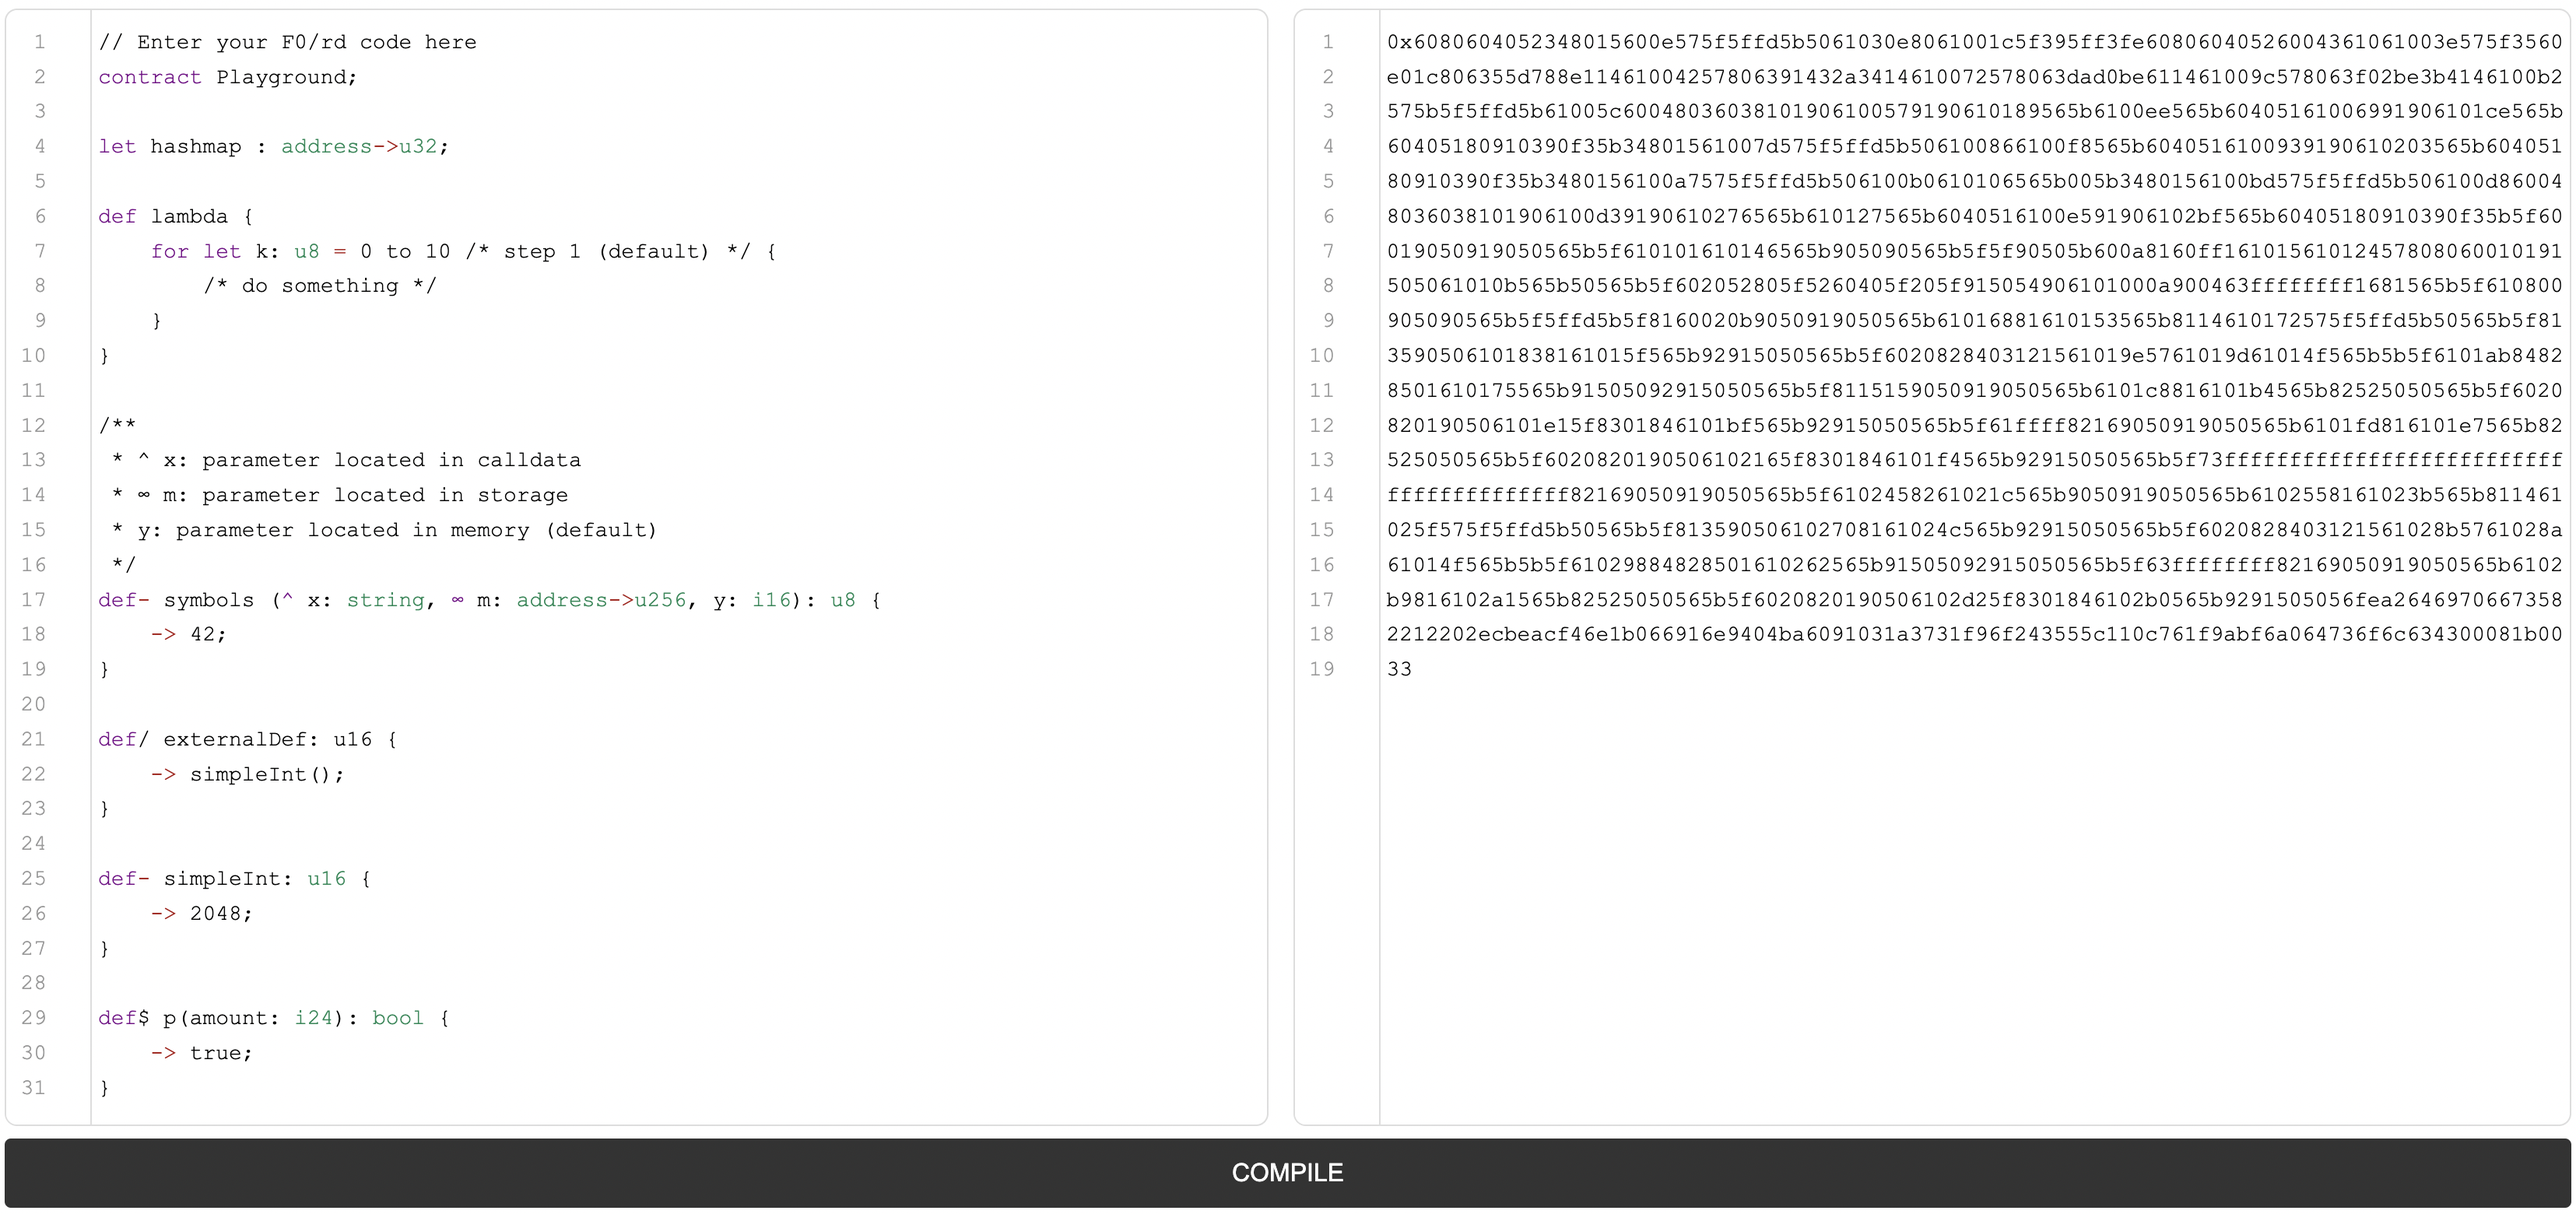
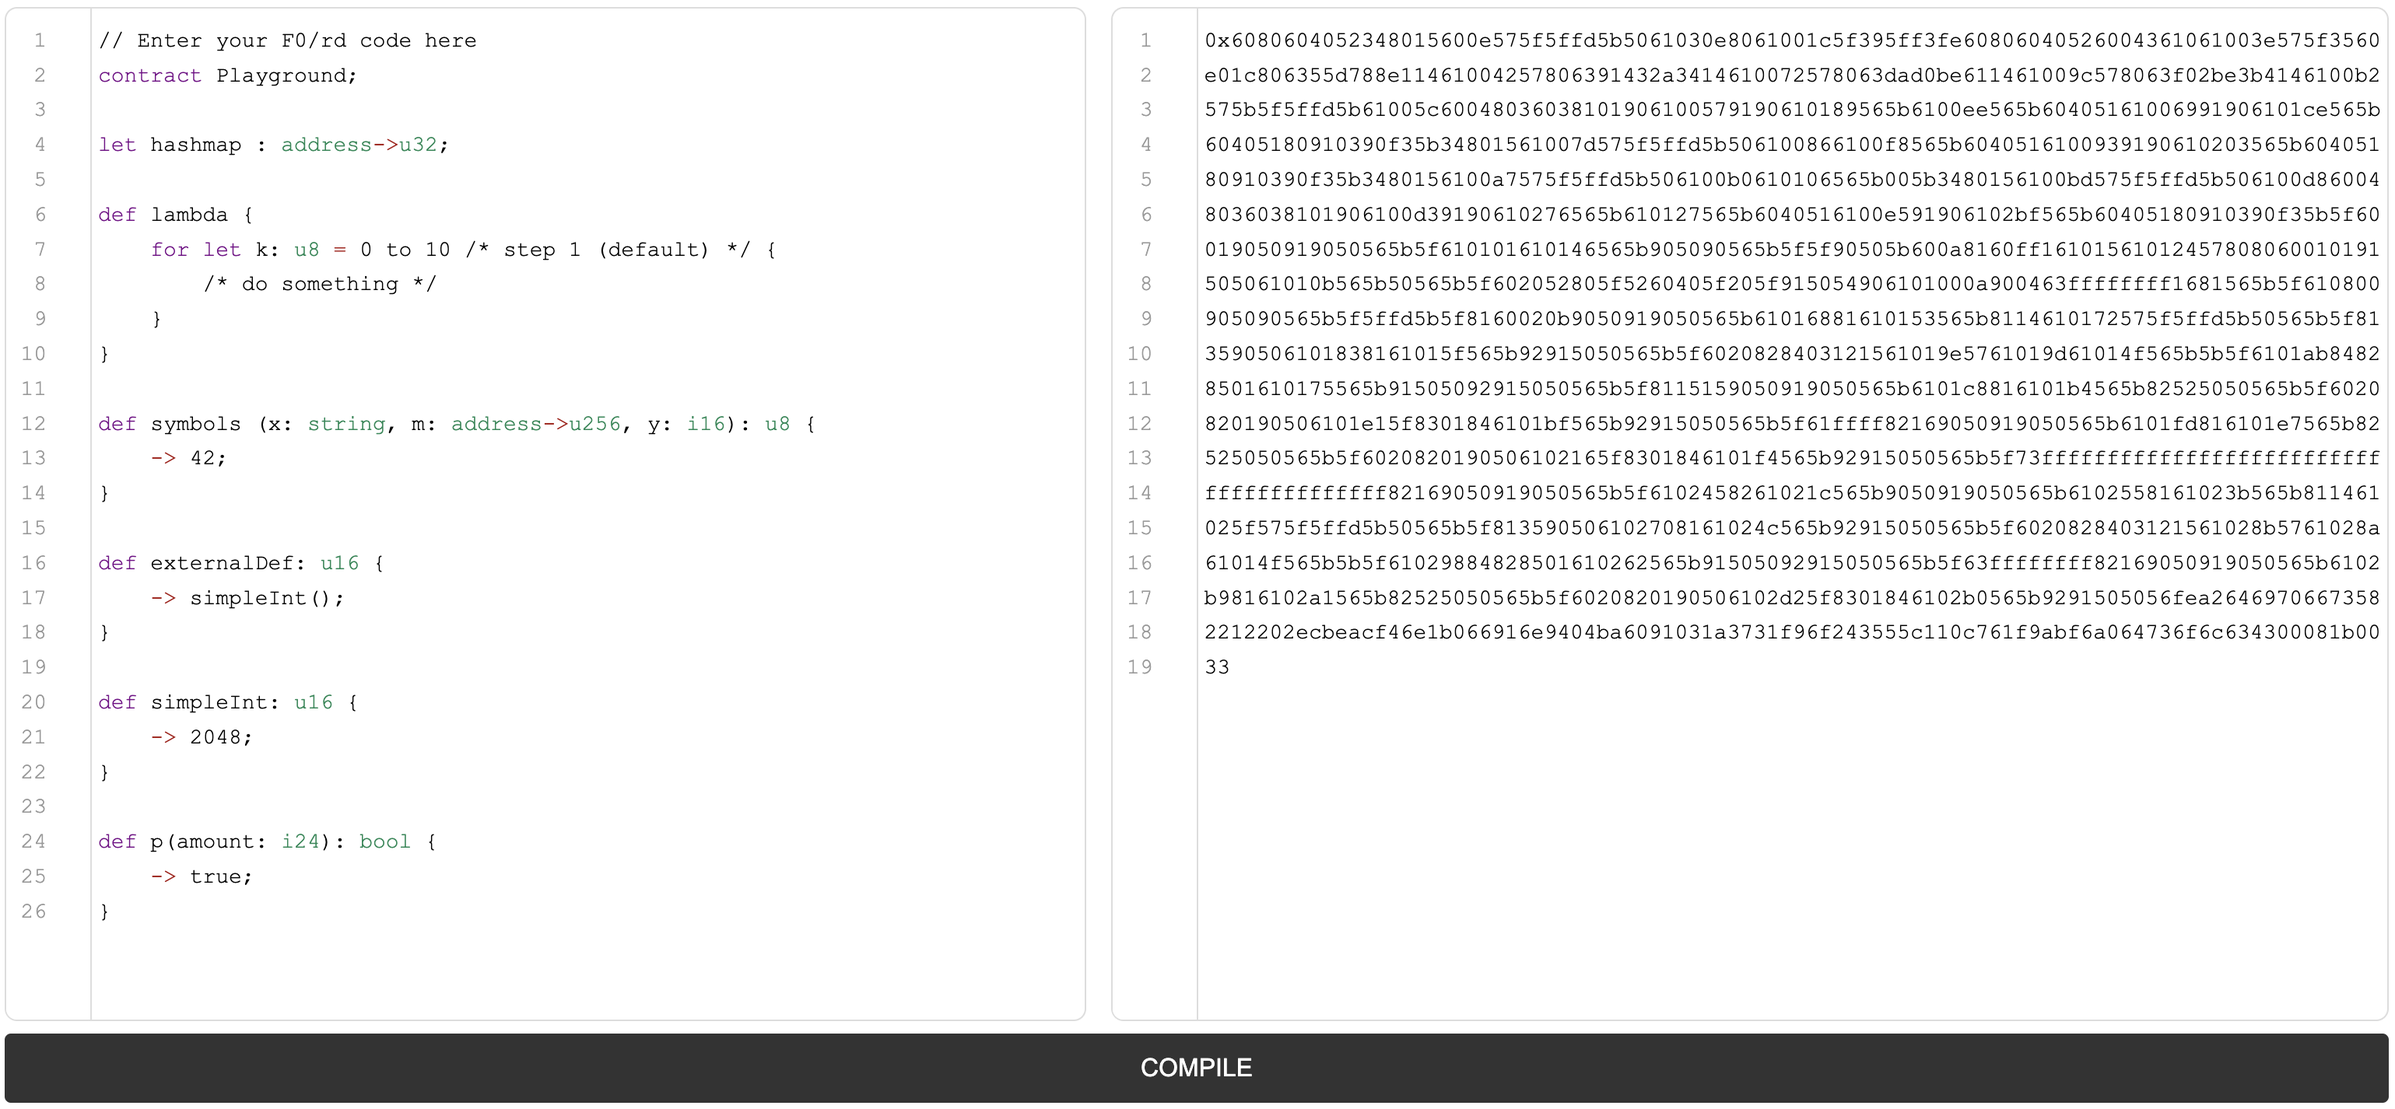
docs: updated F0/rd spec

diff --git a/README.md b/README.md
@@ -6,6 +6,85 @@
 
 ![Ford Playground Screenshot](docs/playground.png)
 
+## Why F0/rd ?
+
+Solidity and Vyper are the main smart contract programming languange for
+the EVM today.
+F0/rd is coming as a third alternative with a vision to make it easier to 
+develop for the EVM. We aim to achieve this by proposing a language that is 
+less verbose, easier to learn and providing modern language constructs, defaults and 
+developer-friendly tooling like F0/rd Simulate.
+
+## Smart contract: .f0 and .meta files
+
+With F0/rd, a smart contract is composed of a .f0 file and a .meta file.
+.f0 files contains the main logic of your smart contract while the .meta file 
+contains additional metadata that specify the relevant metadata of the state variables, 
+functions and events: schema, scope, visibility and modifiers.
+
+Example: 
+**playground.f0**
+```F0/rd
+contract Playground;
+
+let hashmap : address->u32;
+
+def lambda {
+    for let k: u8 = 0 to 10 {
+        /* do something */
+    }
+}
+
+def symbols (x: string, m: address->u256, y: i16): u8 {
+    -> 42;
+}
+```
+**playground.meta**
+```meta
+state:
+    hashmap:
+        - public 
+
+defs:
+  - name: lambda
+    modifiers:
+        - pure
+        - nonpayable
+        - public
+  - name: symbols
+    modifiers:
+        - pure
+        - nonpayable
+        - private
+    params:
+        - name: x
+          location: calldata
+        - name: m
+          location: storage
+```
+
+- The **.meta** file is auto-generated by the compiler.
+- All state variables and functions are assumed to be **public** and **non-payable** unless
+otherwise specified in the .meta file.
+- **pure** and **view** modifiers are detected automatically by the F0/rd compiler and do not
+need to be specified explicitly in the code.
+- Function's parameters are assumed to be located in **memory** unless otherwise specified in
+the .meta file.
+- Functions that do not take input parameters (i.e the `lambda` function in the above code) do not need empty parenthesis. They can be simply 
+written as 
+```F0/rd
+def lambda { ... }
+```
+- `for` loops assume a default step of `1` as in
+```F0/rd 
+for let k: u8 = 0 to 10 /* step 1 (default) */ {
+        /* do something */
+} 
+```
+
+The above points are just a few examples to demonstrate how F0/rd envision to 
+simplify the developer experience.
+
 ## F0/rd types
 
 ### Signed and unsigned integers
@@ -28,6 +107,11 @@ let y1    : u16       = 2000;
 let x0    : i8        = -10;
 ```
 
+or simply (`x` type will default to 256 bits unsigned integer)
+```
+let x = 256;
+```
+
 ### Strings
 ```F0/rd
 let s   : string    = "hello F0/rd!";
@@ -43,6 +127,11 @@ let addr  : address   = "0xCA35b7d915458EF540aDe6068dFe2F44E8fa733c";
 let b     : bool      = false;
 ```
 
+or simply (`b` type will default to boolean)
+```F0/rd
+let b = false;
+```
+
 ### Lists
 ```F0/rd
 let li    : list[i32];
@@ -53,13 +142,11 @@ let li    : list[i32];
 let mm    : address->u256; 
 ```
 
-
-
 ## Command line transpilation 
 
-You start with (playground.f0): 
+You start with **playground.f0** 
 
-```ford
+```F0/rd
 // Enter your F0/rd code here
 contract Playground;
 
@@ -71,24 +158,19 @@ def lambda {
     }
 }
 
-/**
- * ^ x: parameter located in calldata
- * ∞ m: parameter located in storage
- * y: parameter located in memory (default)
- */
-def- symbols (^ x: string, ∞ m: address->u256, y: i16): u8 {
+def symbols (x: string, m: address->u256, y: i16): u8 {
     -> 42;
 }
 
-def/ externalDef: u16 {
+def externalDef: u16 {
     -> simpleInt();
 }
 
-def- simpleInt: u16 {
+def simpleInt: u16 {
     -> 2048;
 }
 
-def$ p(amount: i24): bool {
+def p(amount: i24): bool {
     -> true;
 }
 ```
